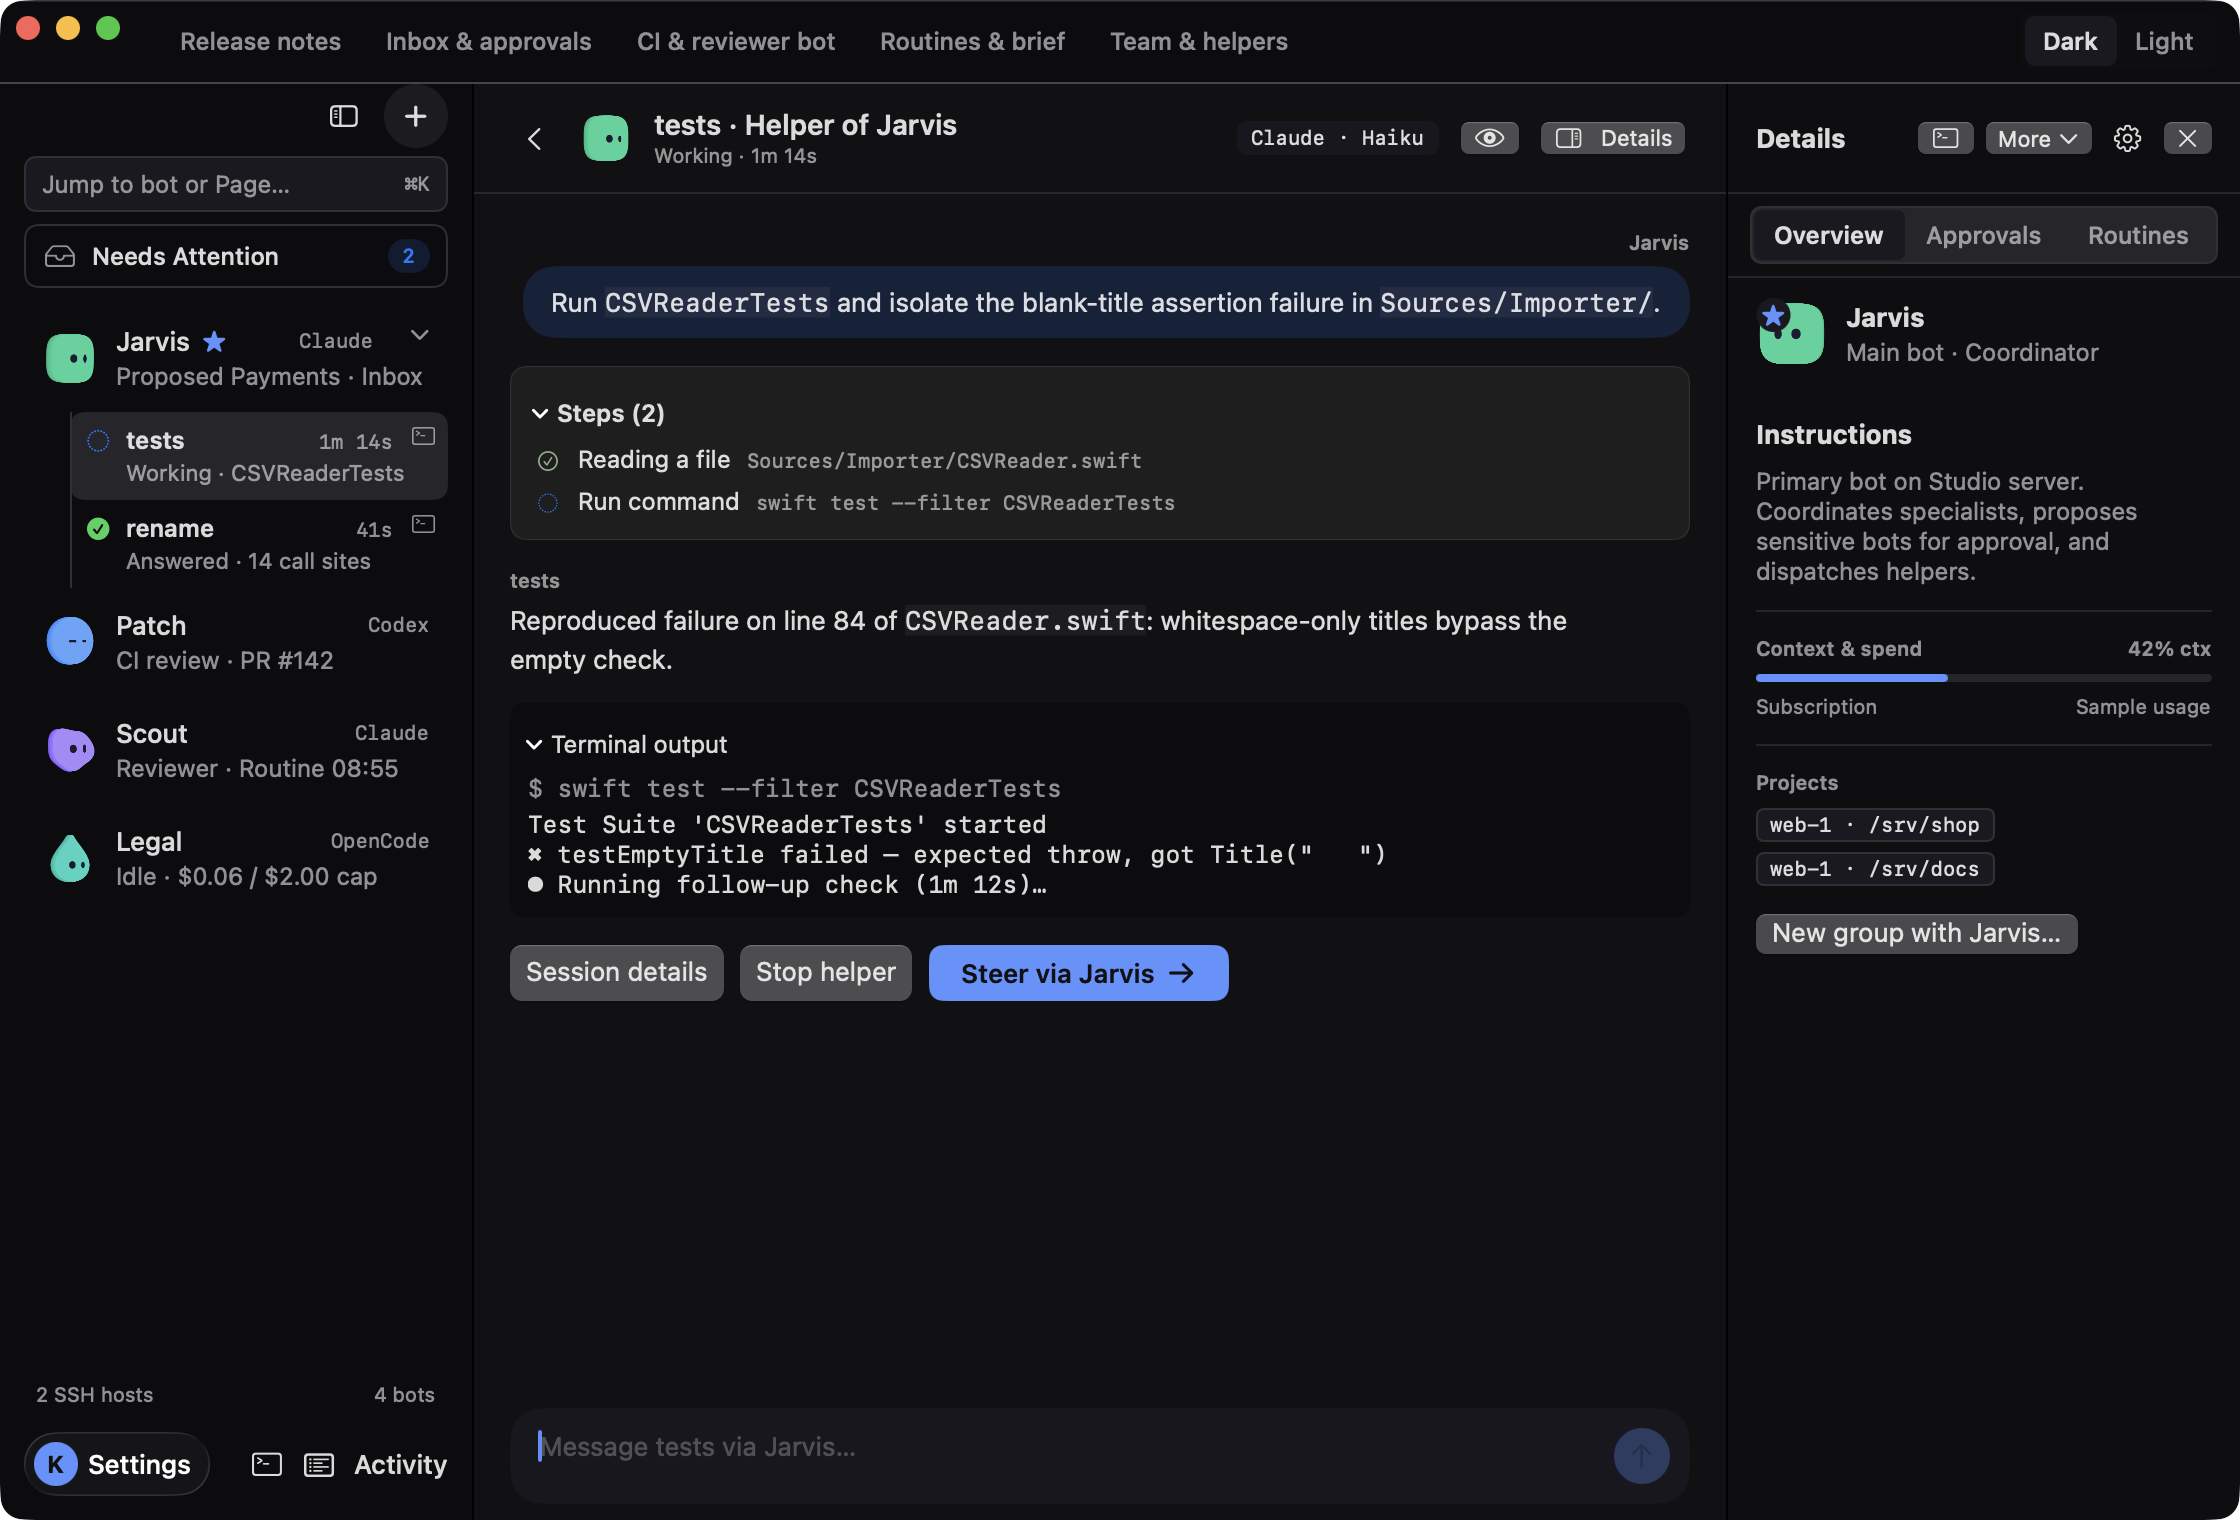
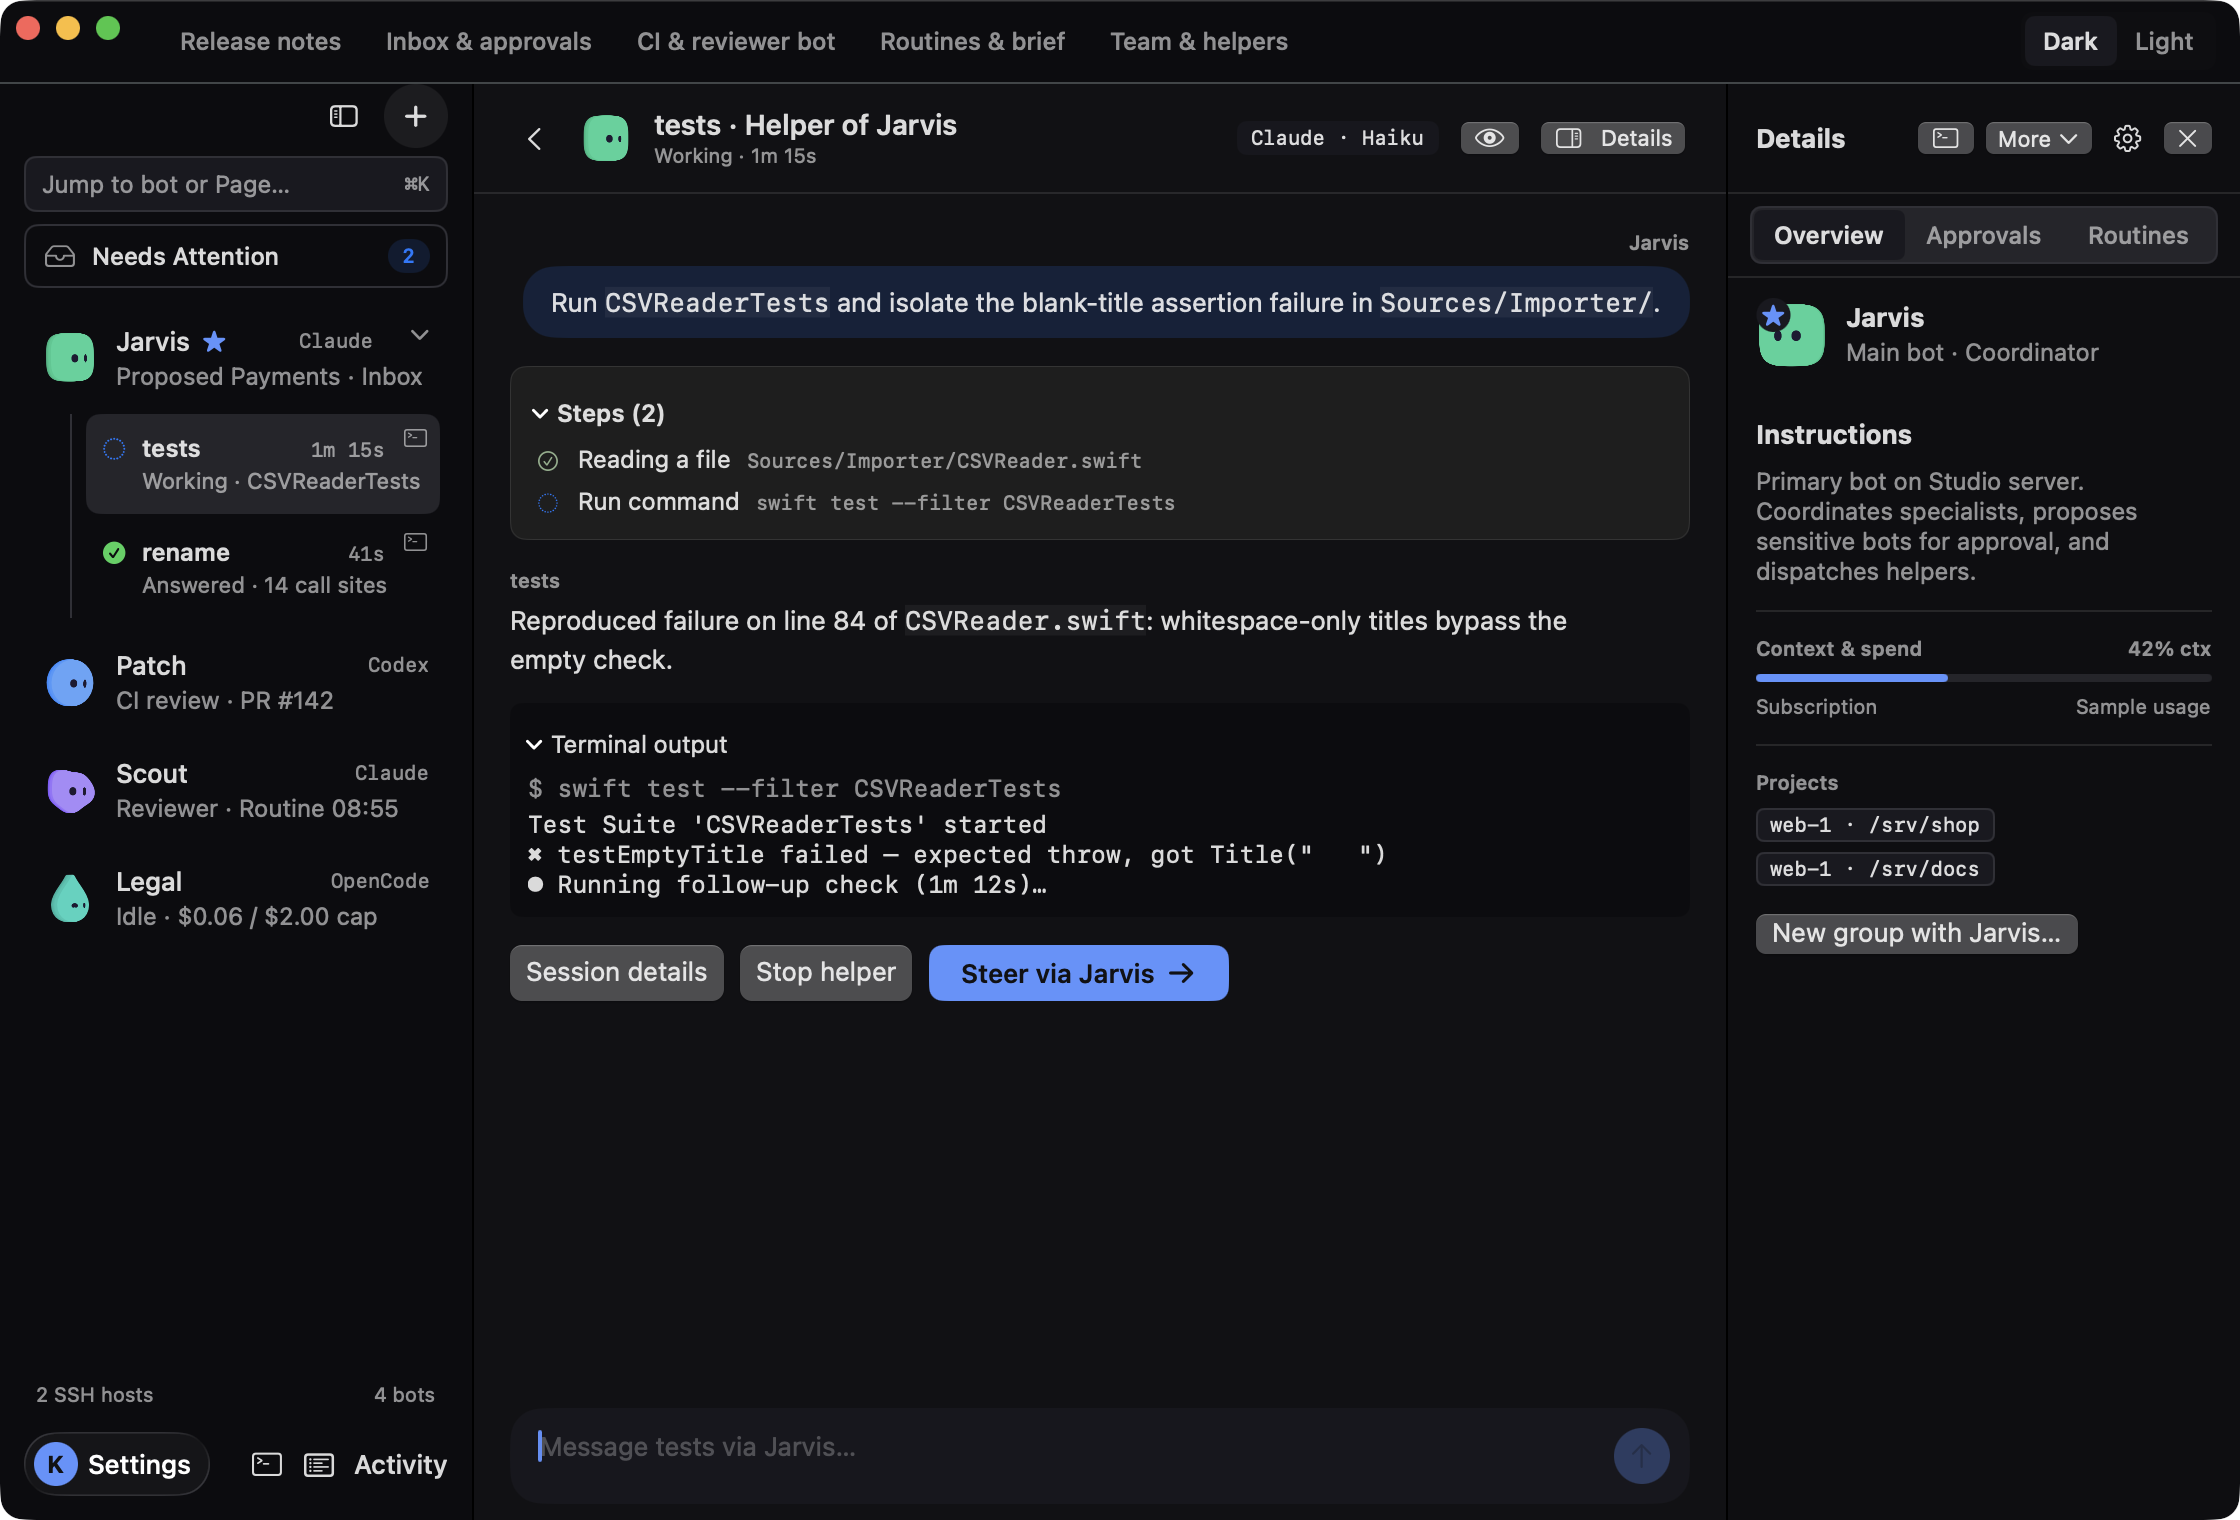
Match the expanded helper tree spacing and expose the selected conversation

Changed region(s): [[0.0, 0.2783, 0.2188, 0.6184]]

diff --git a/Sources/AgentApp/Views/HerdrHelperViews.swift b/Sources/AgentApp/Views/HerdrHelperViews.swift
@@ -62,7 +62,7 @@ struct SidebarBotSessions<ParentRow: View>: View {
                 }.padding(.top, 3)
             }
         if hasSessions && expanded {
-            VStack(alignment: .leading, spacing: 0) {
+            VStack(alignment: .leading, spacing: 2) {
                 ForEach(groups) { group in
                     let parent = group.id
                     if let archive = parent.archive, groups.count > 1 {
@@ -109,8 +109,12 @@ struct SidebarBotSessions<ParentRow: View>: View {
                         .accessibilityLabel(row.job.description + " for " + bot.name + " · " + target.detail)
                 }
             }
+            .padding(.leading, 8)
+            .padding(.trailing, 4)
             .overlay(alignment: .leading) { Rectangle().fill(AppColor.separator).frame(width: 1).accessibilityHidden(true) }
             .padding(.leading, SidebarMetrics.rowPadding + SidebarMetrics.mark / 2)
+            .padding(.top, 1)
+            .padding(.bottom, 5)
         }
     }
 }
@@ -223,7 +227,7 @@ struct HerdrHelperRow: View {
     let selected: Bool
     let open: () -> Void
     private var helper: HerdrClient.Helper { row.helper }
-    static let height: CGFloat = 44
+    static let height: CGFloat = 50
 
     var body: some View {
         SidebarSessionRow(bot: bot, name: helper.name, detail: Self.fragment(helper), selected: selected,

diff --git a/Sources/AgentApp/Views/SidebarRows.swift b/Sources/AgentApp/Views/SidebarRows.swift
@@ -126,7 +126,8 @@ struct BotRow: View {
                 }
                 if bot.isUnread { UnreadDot().offset(y: headerInset > 0 ? 9 : 0) }
             }.modifier(RowChrome(selected: selected, hovering: hovering)).onHover { hovering = $0 }
-        }.buttonStyle(.plain).accessibilityValue(bot.isUnread ? "Unread" : "").contextMenu {
+        }.buttonStyle(.plain).accessibilityAddTraits(selected ? .isSelected : [])
+            .accessibilityValue(bot.isUnread ? "Unread" : "").contextMenu {
             SidebarChatMenu(chat: .bot(bot), askNewSection: askNewSection) { botToDelete = bot }
         }
     }
@@ -159,7 +160,8 @@ struct GroupRow: View {
                 if group.isMuted { Image(systemName: "bell.slash").font(.system(size: 10)).foregroundStyle(.tertiary) }
                 if group.isUnread { UnreadDot() }
             }.modifier(RowChrome(selected: selected, hovering: hovering)).onHover { hovering = $0 }
-        }.buttonStyle(.plain).accessibilityValue(group.isUnread ? "Unread" : "").contextMenu {
+        }.buttonStyle(.plain).accessibilityAddTraits(selected ? .isSelected : [])
+            .accessibilityValue(group.isUnread ? "Unread" : "").contextMenu {
             SidebarChatMenu(chat: .group(group), askNewSection: askNewSection) { botToDelete = group }
         }
     }

diff --git a/Tests/Scripts/chat-window-smoke.py b/Tests/Scripts/chat-window-smoke.py
@@ -617,6 +617,21 @@ def sample_preview(source_app, destination, appearance, library):
                     press_transition(window, second, story + " result", lambda: has_button("Replay walkthrough"))
                     snapshots.capture(story + "-step3")
             helpers = json.loads((Path(__file__).resolve().parents[1] / "Fixtures/preview-helpers.json").read_text())
+            from preview_sidebar import check_jarvis_branch
+
+            def sidebar_selection(selected):
+                rows = {}
+                for button in buttons(window):
+                    title = label(button)
+                    for key in ("jarvis", "tests", "rename", "patch"):
+                        match = (title == helpers[key]["sidebarLabel"] if key in helpers
+                                 else title.startswith(key.capitalize() + ","))
+                        if match:
+                            point = ax.AXValueGetValue(attribute(button, "AXPosition"), ax.kAXValueCGPointType, None)[1]
+                            size = ax.AXValueGetValue(attribute(button, "AXSize"), ax.kAXValueCGSizeType, None)[1]
+                            rows[key] = ((point.x, point.y, size.width, size.height), bool(attribute(button, "AXSelected")))
+                check_jarvis_branch(rows, selected)
+
             for name, expected in helpers.items():
                 def shows_conversation():
                     elements = list(descendants(window))
@@ -633,11 +648,13 @@ def sample_preview(source_app, destination, appearance, library):
                             and any(expected["terminal"] in text for text in static_text(descendants(terminal)))
                             and has_button("Stop helper") == expected["canStop"])
                 press_transition(window, expected["sidebarLabel"], name + " conversation", shows_conversation)
+                sidebar_selection(name)
                 snapshots.capture(name)
             def instruction_focused():
                 return any(attribute(e, "AXRole") == "AXTextField" and attribute(e, "AXFocused") and
                            "Instruction for rename" in (label(e), attribute(e, "AXPlaceholderValue")) for e in descendants(window))
             press_transition(window, "Steer via Jarvis", "focused guidance for rename", instruction_focused)
+            sidebar_selection("jarvis")
             snapshots.capture("steer-rename")
 
             def action(title):

diff --git a/Tests/Scripts/preview-reference.py b/Tests/Scripts/preview-reference.py
@@ -6,6 +6,8 @@ from pathlib import Path
 
 from playwright.sync_api import expect, sync_playwright
 
+from preview_sidebar import check_jarvis_branch
+
 
 def main():
     parser = argparse.ArgumentParser(description=__doc__)
@@ -18,6 +20,17 @@ def main():
         browser = playwright.chromium.launch(executable_path=args.chromium)
         page = browser.new_page(viewport={"width": 1440, "height": 1100}, device_scale_factor=1)
         shell = page.locator("#workspace-shell")
+        def sidebar_selection(selected):
+            rows = {}
+            for name in ("jarvis", "tests", "rename", "patch"):
+                kind = "helper" if name in helpers else "bot"
+                row = shell.locator(f'[data-select-{kind}="{name}"]')
+                expect(row).to_be_in_viewport()
+                box = row.bounding_box()
+                rows[name] = (tuple(box[k] for k in ("x", "y", "width", "height")),
+                              row.get_attribute("aria-selected") == "true")
+            check_jarvis_branch(rows, selected)
+
         for theme in ("dark", "light"):
             page.goto("https://swarmhub.org/", wait_until="domcontentloaded")
             page.locator(f'[data-workspace-theme="{theme}"]').click()
@@ -44,11 +57,13 @@ def main():
                     expect(feed).to_contain_text(text)
                 expect(feed.locator(".terminal-pre")).to_contain_text(expected["terminal"])
                 expect(feed.get_by_role("button", name="Stop helper")).to_have_count(int(expected["canStop"]))
+                sidebar_selection(helper)
                 shell.screenshot(path=args.directory / f"{theme}-{helper}.png")
             shell.get_by_role("button", name="Steer via Jarvis").click()
             expect(shell.locator("#chat-active-name")).to_contain_text("Jarvis")
             expect(shell.locator("#mac-feed")).to_contain_text("Opened Jarvis to steer helper “rename”")
             expect(shell.locator("#mac-composer-input")).to_be_focused()
+            sidebar_selection("jarvis")
             shell.screenshot(path=args.directory / f"{theme}-steer-rename.png")
             shell.locator("#select-inbox").click()
             expect(shell.locator("#inbox-badge")).to_have_text("2")

diff --git a/Tests/Scripts/preview_sidebar.py b/Tests/Scripts/preview_sidebar.py
@@ -1,0 +1,20 @@
+"""Shared visual and selection checks for the Jarvis branch in the two preview galleries."""
+
+
+def check_jarvis_branch(rows, selected):
+    """Each row is a screen rectangle (x, y, width, height) plus its selection state."""
+    marked = [key for key, (_, active) in rows.items() if active]
+    assert marked == [selected], (selected, marked)
+    parent, working, answered, next_bot = [rows[key][0] for key in ("jarvis", "tests", "rename", "patch")]
+    x, y, width, height = parent
+    assert height > 0 and width > 0, parent
+    for child in (working, answered):
+        left, _, child_width, child_height = child
+        # The tree marker and the selected row both fit inside the parent column.
+        assert left > x + height / 2 and left + child_width < x + width, (parent, child)
+        assert height * 0.85 <= child_height <= height, (parent, child)
+    assert abs(working[0] - answered[0]) <= 1 and abs(working[2] - answered[2]) <= 1, (working, answered)
+    for upper, lower in zip((parent, working, answered), (working, answered, next_bot)):
+        gap = lower[1] - (upper[1] + upper[3])
+        assert 0 < gap < height / 4, (upper, lower)
+    assert abs(next_bot[0] - x) <= 1, (parent, next_bot)

diff --git a/docs/agent-qa.md b/docs/agent-qa.md
@@ -114,13 +114,13 @@ To compare the helper session with the website’s Interactive preview, capture 
 /usr/bin/python3 Tests/Scripts/chat-window-smoke.py --helper-screenshots /Applications/SwarmHub.app ./helper-screenshots
 ```
 
-To compare the same sample data as the [Interactive preview](https://swarmhub.org/), capture every step of the four walkthroughs, the Inbox, both Jarvis helper conversations, the focused parent composer after steering rename, and the Inbox after resolving both decisions. The driver waits for the selected helper’s own terminal output, the guidance field, or the decision confirmations before capturing each corresponding view. It writes 34 PNGs, with names such as `dark-tests.png` and `light-brief.png`, from a disposable local workspace. See the working helper in version 0.8.120 in [dark](screenshots/dark/helper-chat.png) and [light](screenshots/light/helper-chat.png) appearance.
+To compare the same sample data as the [Interactive preview](https://swarmhub.org/), capture every step of the four walkthroughs, the Inbox, both Jarvis helper conversations, the focused parent composer after steering rename, and the Inbox after resolving both decisions. The driver waits for the selected helper’s own terminal output, the guidance field, or the decision confirmations before capturing each corresponding view. It writes 34 PNGs, with names such as `dark-tests.png` and `light-brief.png`, from a disposable local workspace. See the working helper in version 0.8.124 in [dark](screenshots/dark/helper-chat.png) and [light](screenshots/light/helper-chat.png) appearance.
 
 ```sh
 /usr/bin/python3 Tests/Scripts/chat-window-smoke.py --sample-screenshots /Applications/SwarmHub.app ./sample-screenshots
 ```
 
-To capture the matching website views, run the browser driver with Python Playwright and its Chromium browser installed. You can also pass `--chromium /path/to/chrome`. Both drivers check the assignment, step count, reply, terminal result and availability of Stop helper before capturing each helper. They read the same expected results from [the two helper examples](../Tests/Fixtures/preview-helpers.json). Match each image to the file of the same name from the Mac driver.
+To capture the matching website views, run the browser driver with Python Playwright and its Chromium browser installed. You can also pass `--chromium /path/to/chrome`. Both drivers check the assignment, step count, reply, terminal result and availability of Stop helper before capturing each helper. When switching between helpers and returning to Jarvis, both drivers measure the sidebar rows on screen. They check their order, indentation, spacing and selection. They read the same expected results from [the two helper examples](../Tests/Fixtures/preview-helpers.json). Match each image to the file of the same name from the Mac driver.
 
 ```sh
 python3 Tests/Scripts/preview-reference.py ./website-screenshots

diff --git a/docs/releases/v0.8.124.md b/docs/releases/v0.8.124.md
@@ -1,0 +1,4 @@
+# SwarmHub 0.8.124
+
+- Expanded bots give each helper a distinct, indented row with more room to click. A gap separates the selected helper from the tree line and neighboring sessions.
+- VoiceOver and Mac accessibility tools can identify the selected bot or group when you return from a helper conversation.
